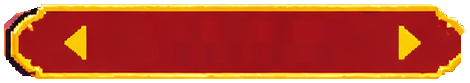
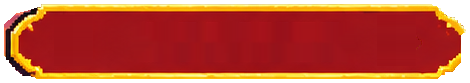
Menu: show selection arrows only on options with left/right choices
The selected plaque now has its gold arrows only when the option cycles
with left/right (DIFFICULTY). Other options use the plain red plaque,
and their labels may use the room the arrows would take.

Claude-Session: https://claude.ai/code/session_01Wc5yMNhxG9LmuzgQGcUqya

Changed region(s): [[0.1191, 0.3133, 0.2085, 0.7229], [0.834, 0.2892, 0.8936, 0.7229]]

diff --git a/src/render/menuUi.ts b/src/render/menuUi.ts
@@ -10,6 +10,7 @@ const DIR = '/ui/menu/';
 const load = (f: string) => { const i = new Image(); i.src = DIR + f; return i; };
 const plaqueDefault = load('plaque_default.png');
 const plaqueSelected = load('plaque_selected.png');
+const plaqueSelectedArrows = load('plaque_selected_arrows.png');
 const font = load('font.png');
 const ready = (i: HTMLImageElement) => i.complete && i.naturalWidth > 0;
 
@@ -20,9 +21,10 @@ const TRACKING = -1;
 const SPACE = 14;
 /** Screen scale of the plaque art and of full-size lettering. */
 export const MENU_SCALE = 0.5;
-/** Widest a label may be (atlas px) before it is shrunk to fit between the selected plaque's arrows.
- *  Applied in both states so a label keeps its size when highlighted. */
-const MAX_LABEL_W = 300;
+/** Widest a label may be (atlas px) before it is shrunk to fit inside the plaque. Options with arrows
+ *  get less room. The limit applies in both states so a label keeps its size when highlighted. */
+const MAX_LABEL_W = 350;
+const MAX_LABEL_W_ARROWS = 300;
 
 function measure(s: string): number {
   let w = 0;
@@ -42,9 +44,13 @@ export function bitmapText(ctx: CanvasRenderingContext2D, s: string, cx: number,
   }
 }
 
-/** One menu option centred on (cx, cy). Falls back to plain text until the art has loaded. */
-export function drawMenuButton(ctx: CanvasRenderingContext2D, label: string, cx: number, cy: number, selected: boolean) {
-  const plaque = selected ? plaqueSelected : plaqueDefault;
+/**
+ * One menu option centred on (cx, cy). `choices` marks an option that cycles with left/right
+ * (e.g. difficulty): only those show the gold arrows, and only while selected.
+ * Falls back to plain text until the art has loaded.
+ */
+export function drawMenuButton(ctx: CanvasRenderingContext2D, label: string, cx: number, cy: number, selected: boolean, choices = false) {
+  const plaque = !selected ? plaqueDefault : choices ? plaqueSelectedArrows : plaqueSelected;
   if (!ready(plaque) || !ready(font)) {
     text(ctx, label, cx, cy, 30, selected ? '#ff3b2f' : '#ffffff');
     return;
@@ -53,7 +59,7 @@ export function drawMenuButton(ctx: CanvasRenderingContext2D, label: string, cx:
   ctx.save();
   ctx.imageSmoothingEnabled = false;
   ctx.drawImage(plaque, Math.round(cx - (plaque.width * s) / 2), Math.round(cy - (plaque.height * s) / 2), plaque.width * s, plaque.height * s);
-  const fit = Math.min(1, MAX_LABEL_W / measure(label.toUpperCase()));
+  const fit = Math.min(1, (choices ? MAX_LABEL_W_ARROWS : MAX_LABEL_W) / measure(label.toUpperCase()));
   // The selected plaque carries a drop shadow on its left, so its face sits slightly right of centre.
   bitmapText(ctx, label, cx + (selected ? 3 : 0), cy, s * fit);
   ctx.restore();

diff --git a/src/scenes/menus.ts b/src/scenes/menus.ts
@@ -37,11 +37,11 @@ function drawTitleScene(ctx: CanvasRenderingContext2D, app: App, pair: [number, 
   drawCharacter(ctx, ROSTER[pair[1]], 'idle', f, VIEW_W - 140, GROUND_Y, -1, 1);
 }
 
-/** Centred column of plaque buttons; `header` (if any) sits above them. */
-function drawMenu(ctx: CanvasRenderingContext2D, items: string[], sel: number, header?: string) {
+/** Centred column of plaque buttons; `header` (if any) sits above them. `choices` lists the items that cycle with left/right. */
+function drawMenu(ctx: CanvasRenderingContext2D, items: string[], sel: number, header?: string, choices: number[] = []) {
   let y = 262;
   if (header) { drawMenuHeading(ctx, header, VIEW_W / 2, y - 8); y += 46; }
-  items.forEach((s, i) => drawMenuButton(ctx, s, VIEW_W / 2, y + i * 52, i === sel));
+  items.forEach((s, i) => drawMenuButton(ctx, s, VIEW_W / 2, y + i * 52, i === sel, choices.includes(i)));
 }
 
 export class TitleScene implements Scene {
@@ -91,7 +91,7 @@ export class TitleScene implements Scene {
 
   render(ctx: CanvasRenderingContext2D) {
     drawTitleScene(ctx, this.app, this.pair);
-    drawMenu(ctx, this.items(), this.sel, this.settings ? 'SETTINGS' : undefined);
+    drawMenu(ctx, this.items(), this.sel, this.settings ? 'SETTINGS' : undefined, this.settings ? [0] : []);
     drawTitlePlaque(ctx, !!this.app.touch);
   }
 }
